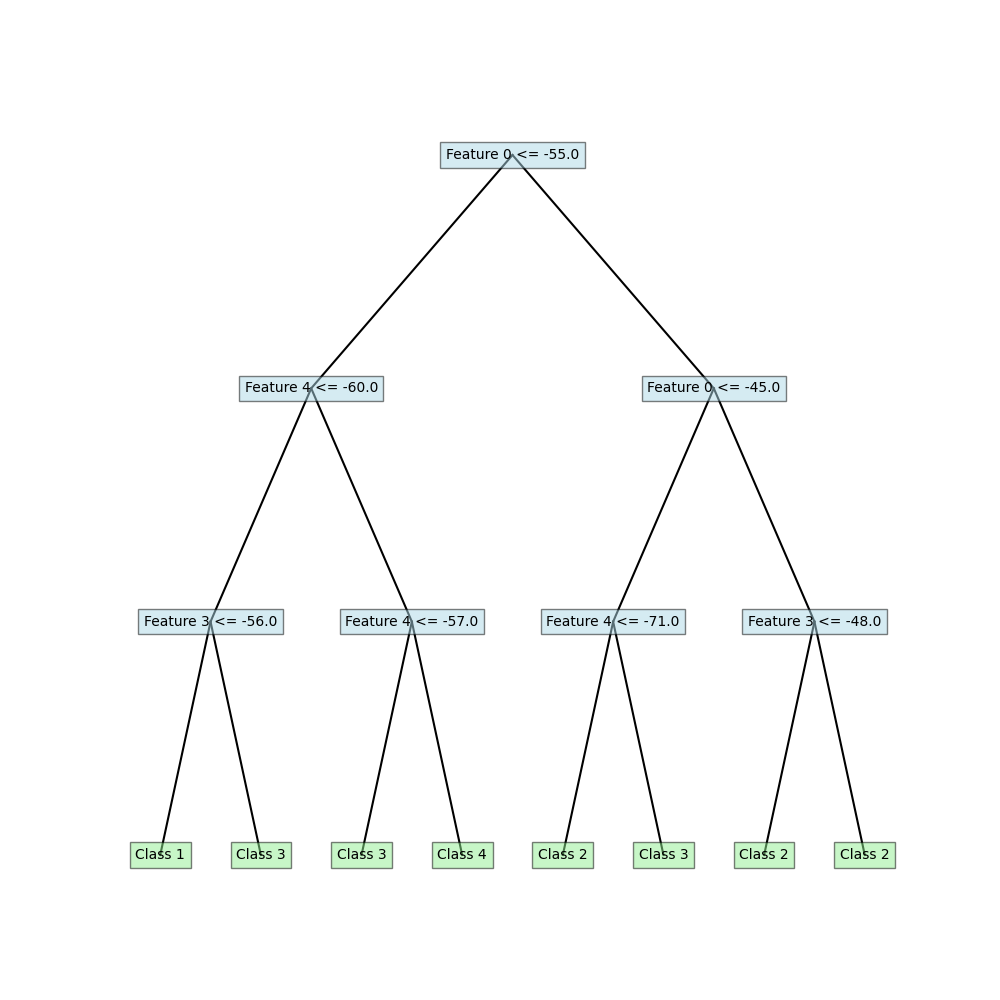
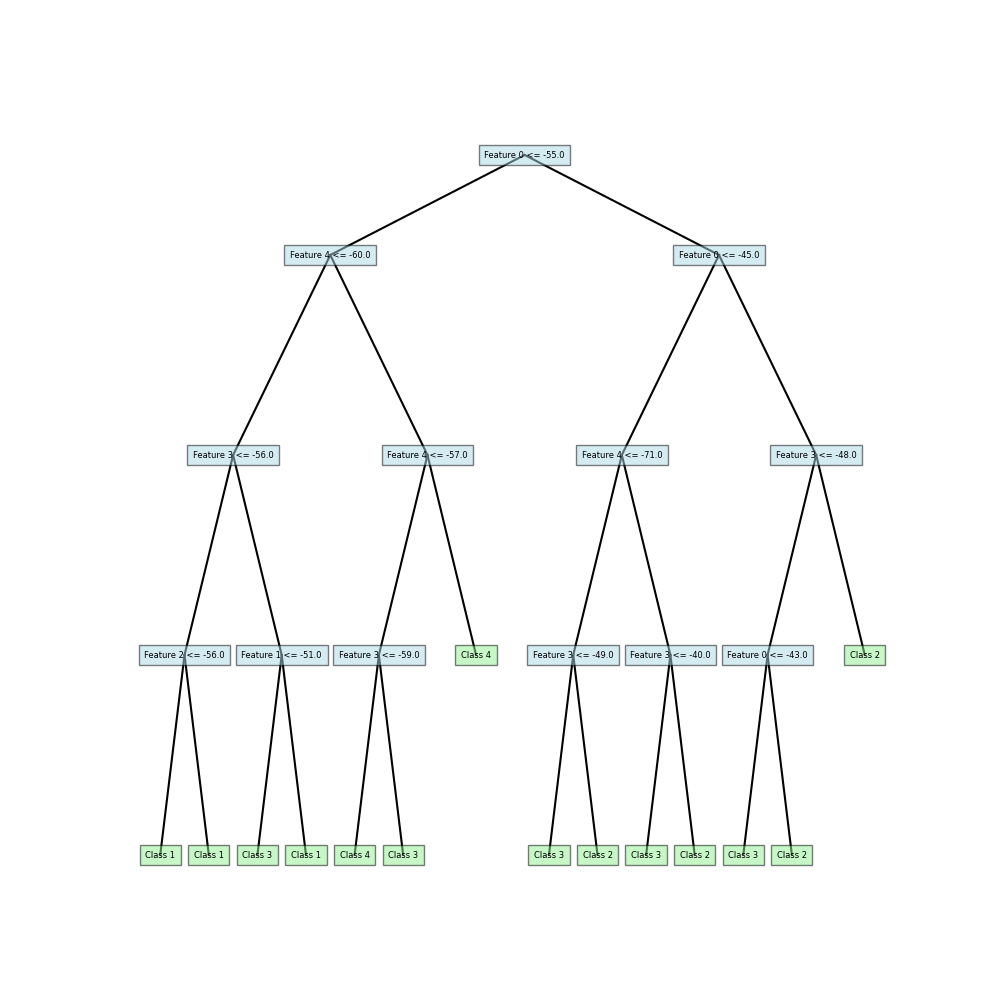
updated tree diagram

diff --git a/decision_tree_cross_validation.py b/decision_tree_cross_validation.py
@@ -1,0 +1,177 @@
+# import of libraries
+import numpy as np
+import matplotlib.pyplot as plt
+
+ 
+
+# global declarations
+data_path = "wifi_db/clean_dataset.txt"
+MAX_DEPTH = 4
+
+initial_data = np.loadtxt(data_path)
+#print("initial array", initial_data)
+
+
+#definition of functions
+def entropy(y):
+    _, counts = np.unique(y, return_counts=True)
+    probabilities = counts / len(y)
+    return -np.sum(probabilities * np.log2(probabilities))
+
+def information_gain(X, y, feature_index, threshold):
+    mask = X[:, feature_index] <= threshold
+    left_y = y[mask]
+    right_y = y[~mask]
+
+    if len(left_y) == 0 or len(right_y) == 0:
+        return 0
+
+    total_entropy = entropy(y)
+    left_entropy = entropy(left_y)
+    right_entropy = entropy(right_y)
+
+    left_weight = len(left_y) / len(y)
+    right_weight = len(right_y) / len(y)
+
+    return total_entropy - (left_weight * left_entropy + right_weight * right_entropy)
+
+def find_best_split(X, y):
+    best_feature = None
+    best_threshold = None
+    best_gain = -1
+
+    for feature_index in range(X.shape[1]):
+        thresholds = np.unique(X[:, feature_index])
+        for threshold in thresholds:
+            gain = information_gain(X, y, feature_index, threshold)
+            if gain > best_gain:
+                best_gain = gain
+                best_feature = feature_index
+                best_threshold = threshold
+
+    return best_feature, best_threshold
+
+def build_tree(X, y, depth=0, max_depth=None):
+    if len(set(y)) == 1:
+        return {'class': y[0]}
+
+    if max_depth is not None and depth == max_depth:
+        return {'class': np.argmax(np.bincount(y))}
+
+    best_feature, best_threshold = find_best_split(X, y)
+
+    if best_feature is None:
+        return {'class': np.argmax(np.bincount(y))}
+
+    mask = X[:, best_feature] <= best_threshold
+    left_subtree = build_tree(X[mask], y[mask], depth + 1, max_depth)
+    right_subtree = build_tree(X[~mask], y[~mask], depth + 1, max_depth)
+
+    return {'feature': best_feature, 'threshold': best_threshold,
+            'left': left_subtree, 'right': right_subtree}
+
+def predict_tree(tree, X):
+    if 'class' in tree:
+        return tree['class']
+    if X[tree['feature']] <= tree['threshold']:
+        return predict_tree(tree['left'], X)
+    else:
+        return predict_tree(tree['right'], X)
+
+def plot_tree_manual(tree, x=0, y=0, layer=0, max_depth=MAX_DEPTH):
+    if 'class' in tree:
+        plt.text(x, y, f'Class {tree["class"]}', bbox=dict(facecolor='lightgreen', alpha=0.5),
+                 ha='center', va='center', fontsize=6)
+    else:
+        plt.text(x, y, f'Feature {tree["feature"]} <= {tree["threshold"]}', bbox=dict(facecolor='lightblue', alpha=0.5),
+                 ha='center', va='center', fontsize=6)
+
+        if layer < max_depth:
+            if (layer == 0):
+                dx = 1000
+                dy = 1
+            elif (layer == 1):
+                dx = 500
+                dy = 2
+            elif (layer == 2):
+                dx = 250
+                dy = 2
+            elif (layer == 3):
+                dx= 125
+                dy = 2
+            else:
+                dx = 60
+                dy = 3
+
+
+
+            # Draw left child
+            plt.plot([x, x-dx], [y, y-dy], 'k-')
+            plot_tree_manual(tree['left'], x-dx, y-dy, layer+1, max_depth)
+
+            # Draw right child
+            plt.plot([x, x+dx], [y, y-dy], 'k-')
+            plot_tree_manual(tree['right'], x+dx, y-dy, layer+1, max_depth)
+
+# Example usage
+# Assuming X and y are your data
+# X should be a 2D numpy array with features (x1-x7)
+# y should be a 1D numpy array with labels (group 1-4)
+
+np.random.shuffle(initial_data) #randomize order of the data
+
+X = initial_data[:, :-1]  # Select all rows, and all columns except the last one
+y = initial_data[:, -1]   # Select all rows, and only the last column
+y = y.astype('int64')
+
+# Define the number of folds
+num_folds = 10
+
+# Calculate the size of each fold
+fold_size = len(y) // num_folds
+
+# Initialize an array to store the validation accuracies
+validation_accuracies = []
+
+for fold in range(num_folds):
+    # Define the indices for the current fold
+    start_idx = fold * fold_size
+    end_idx = (fold + 1) * fold_size
+    
+    # Split the data into training and validation sets
+    X_train = np.concatenate((X[:start_idx], X[end_idx:]), axis=0)
+    y_train = np.concatenate((y[:start_idx], y[end_idx:]), axis=0)
+    
+    X_val = X[start_idx:end_idx]
+    y_val = y[start_idx:end_idx]
+    
+    # Train your model (Assuming you have a function train_model(X, y) that trains your model)
+    tree = build_tree(X_train, y_train, max_depth = MAX_DEPTH)
+    
+    # Evaluate the model
+    predictions = [predict_tree(tree, validation_x) for validation_x in X_val]
+    accuracy = np.sum(predictions == y_val) / len(y_val)
+    
+    validation_accuracies.append(accuracy)
+
+# Calculate the mean and standard deviation of the validation accuracies
+mean_accuracy = np.mean(validation_accuracies)
+std_dev_accuracy = np.std(validation_accuracies)
+
+print(f'Mean accuracy: {mean_accuracy}')
+print(f'Standard deviation: {std_dev_accuracy}')
+
+
+tree = build_tree(X, y, max_depth=MAX_DEPTH)  # Build tree with max depth of 3
+predictions = [predict_tree(tree, x) for x in X]
+
+
+# Assuming 'tree' is your built decision tree
+plt.figure(figsize=(10, 10))
+plt.axis('off')
+plot_tree_manual(tree)
+plt.savefig('decision_tree.png')
+
+
+
+print("complete")
